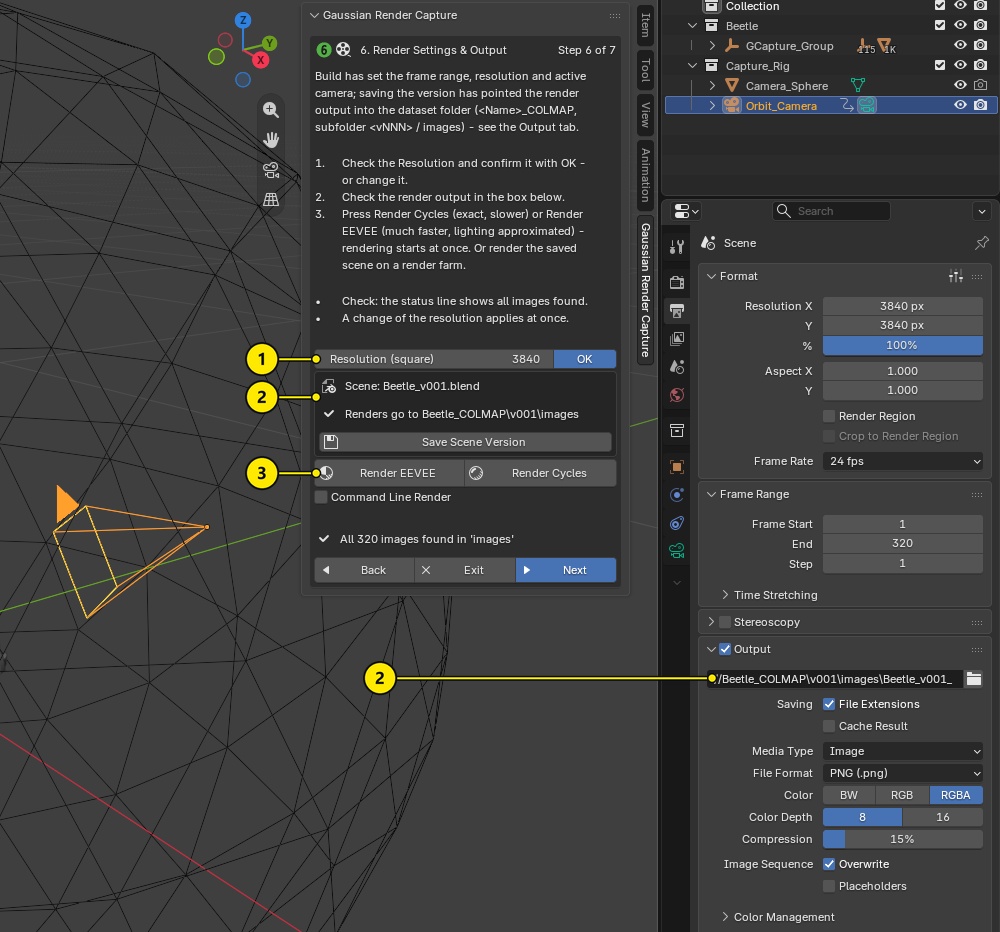
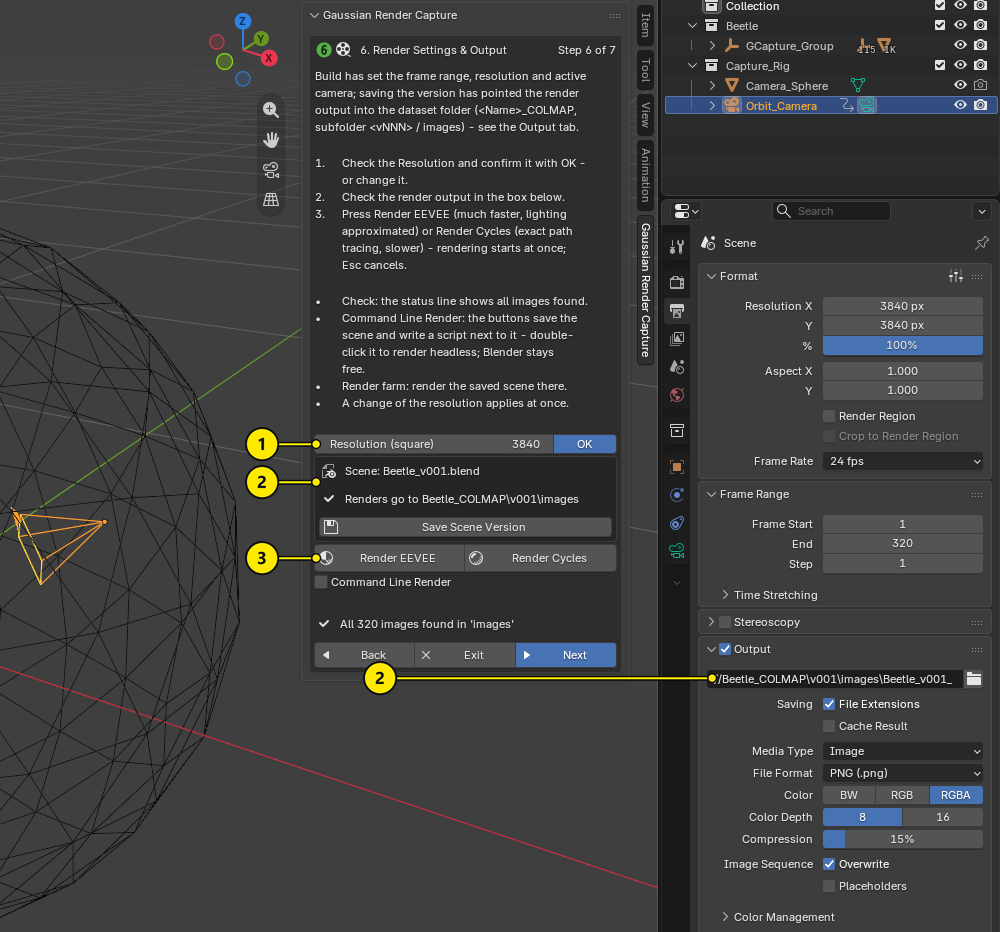
Guide, tutorial and docs for the new render and export features
Claude-Session: https://claude.ai/code/session_01BUSUMthGLNrrzG6UXMJPox

diff --git a/gaussian_capture.py b/gaussian_capture.py
@@ -4094,7 +4094,8 @@ _GCAPTURE_WT_STEPS = [
                 "Object on a ground: turn on Upper Hemisphere Only. "
                 "Floating object: leave it off - the full sphere also sees "
                 "it from below.",
-                "Press Create / Update Camera Sphere."],
+                "Keep Build Cameras on This Sphere on and press Create / "
+                "Update Camera Sphere."],
          check="the sphere surrounds the model; the status line shows the "
                "number of cameras.",
          note=["Framing Margin adds room around the model; 1.0 fills the "
@@ -4131,11 +4132,15 @@ _GCAPTURE_WT_STEPS = [
          steps=["Check the Resolution and confirm it with OK - or change "
                 "it.",
                 "Check the render output in the box below.",
-                "Press Render Cycles (exact, slower) or Render EEVEE (much "
-                "faster, lighting approximated) - rendering starts at once. "
-                "Or render the saved scene on a render farm."],
+                "Press Render EEVEE (much faster, lighting approximated) or "
+                "Render Cycles (exact path tracing, slower) - rendering "
+                "starts at once; Esc cancels."],
          check="the status line shows all images found.",
-         note=["A change of the resolution applies at once."]),
+         note=["Command Line Render: the buttons save the scene and write a "
+               "script next to it - double-click it to render headless; "
+               "Blender stays free.",
+               "Render farm: render the saved scene there.",
+               "A change of the resolution applies at once."]),
     dict(title="7. COLMAP Export", badge='gcapture_6', icon='EXPORT',
          draw=_gcapture_draw_export, status=_gcapture_wt_status_export,
          goal="Writes the cameras, their poses and a start point cloud into "
@@ -4148,7 +4153,9 @@ _GCAPTURE_WT_STEPS = [
                 "Open <Name>_COLMAP/<vNNN> in Postshot or LichtFeld Studio "
                 "and start training."],
          check="the status line shows \"Dataset written\".",
-         note=["Copy/Move only appear if you render into your own folder "
+         note=["The settings are grouped into Dataset, Start Points and "
+               "Scale & Axes; the defaults fit most models.",
+               "Copy/Move only appear if you render into your own folder "
                "structure."]),
 ]
 

diff --git a/docs/REFERENCE.md b/docs/REFERENCE.md
@@ -57,30 +57,45 @@ preset off when you render into a folder of your own.
 | Setting | Default | What it does |
 |---|---|---|
 | Resolution (square) | 1000 | Render resolution in pixels, width = height; applied at once. Confirm once with **OK**. |
-| **Render Cycles** | – | Starts rendering: one image per camera into the dataset with Cycles on the GPU and the settings of *Prepare Scene*. Exact, slower. |
-| **Render EEVEE** | – | The same with EEVEE: much faster, lighting approximated. The first time it applies a capture preset (256 samples, ray tracing and fast GI at full resolution, soft shadows, overscan); your later changes are kept. |
-| Command Line Render | off | Headless: the buttons read *Write Cycles .cmd* / *Write EEVEE .cmd* (`.command` on macOS, `.sh` on Linux): they save the scene and write a double-click script next to it (`<Scene>_render_cycles.cmd` / `_eevee`; `.command` on macOS, `.sh` on Linux) that renders headless with the same Blender version. |
+| **Render EEVEE** | – | Starts rendering: one image per camera into the dataset with EEVEE – much faster, lighting approximated. The first time it applies a capture preset (256 samples, ray tracing and fast GI at full resolution, soft shadows, overscan); your later changes are kept. |
+| **Render Cycles** | – | The same with Cycles on the GPU and the settings of *Prepare Scene*: exact path tracing, slower. |
+| Command Line Render | off | Headless: the buttons read *Write EEVEE .cmd* / *Write Cycles .cmd*. They save the scene and write a double-click script next to it (`<Scene>_render_eevee.cmd` / `_cycles`; `.command` on macOS, `.sh` on Linux) that renders with the same Blender version, without its interface. |
 
 Under *Advanced → Render Setup* (keep on for a capture): Step per Frame (constant keyframes), Set as
 Active Camera, Set Scene Frame Range, Set Render Resolution. They apply at once and on every Build.
 
 ## 7. COLMAP Export
 
+**Dataset**
+
 | Setting | Default | What it does |
 |---|---|---|
 | Output Folder | `//<Name>_COLMAP/<vNNN>/` | Dataset folder; follows the loaded version. Enter your own to override. |
 | Image Folder | folder of the render output | Where the rendered images are; follows the render output. |
-| Point Source | Look Target Collections | Where the start points come from: the look-target collections, all visible meshes, or named objects. |
-| Auto Scale / Target Radius | on / 3.0 | Scales the dataset so the cameras are on average 3 units from the centre (Postshot densifies very small or large scenes badly). The factor goes into `<vNNN>_gcapture_export.json` next to the dataset folder. |
-| Use Vertex Count | on | Every vertex of the model becomes a start point. Off: set *Max Points* yourself. |
-| Point Color | Material Base Color | Colour of the start points, face points included: the material base colour, a vertex colour layer, or grey. |
 | Images | Don't include | Only with your own render folder: *Copy* or *Move* the images into the dataset. |
-| Z-up → Y-up | on | Converts Blender's axes to the Y-up convention of the trainers. |
-| Visibility Filter | Visible Only | Drops points no camera can see (GPU depth maps); Esc cancels. |
+
+**Start Points**
+
+| Setting | Default | What it does |
+|---|---|---|
+| Point Source | Look Target Collections | Where the start points come from: the look-target collections, all visible meshes, or named objects. |
+| Use Vertex Count | on | Every vertex of the model becomes a start point. Off: set *Max Points* yourself. |
 | Add Random Face Points / Face Points | on / 10 % | Extra points spread over the surfaces, as a share of the vertex points. |
+| Visibility Filter | Visible Only | Drops points no camera can see (GPU depth maps); Esc cancels. |
+| Point Color | Material Base Color | Colour of the start points, face points included: the material base colour, a vertex colour layer, or grey. |
 | Crop Point Cloud | off | Keeps only points inside the bounds of a chosen object (plus margin). |
 | Reuse Point Cloud | on | Copies the last point cloud if nothing that affects it has changed. |
-| **Export COLMAP (Postshot / LichtFeld)** | – | Writes `sparse/0/` and, if chosen, the images into the dataset, and `<vNNN>_gcapture_export.json` next to it. |
+
+**Scale & Axes**
+
+| Setting | Default | What it does |
+|---|---|---|
+| Auto Scale / Target Radius | on / 3.0 | Scales the dataset so the cameras are on average 3 units from the centre (Postshot densifies very small or large scenes badly). The factor goes into `<vNNN>_gcapture_export.json` next to the dataset folder. |
+| Z-up → Y-up | on | Converts Blender's axes to the Y-up convention of the trainers. |
+
+| Button | What it does |
+|---|---|
+| **Export COLMAP (Postshot / LichtFeld)** | Writes `sparse/0/` and, if chosen, the images into the dataset, and `<vNNN>_gcapture_export.json` next to it. While it runs, a progress bar replaces the button; Esc cancels. |
 
 ## Advanced
 

diff --git a/docs/TUTORIAL.md b/docs/TUTORIAL.md
@@ -136,7 +136,7 @@ face.
 2. Keep **Fill Each View** and **Center in Each View** on.
 3. Object on a ground: turn on **Upper Hemisphere Only**. Floating object: leave it off – the
    full sphere also sees it from below.
-4. Press **Create / Update Camera Sphere**.
+4. Keep **Build Cameras on This Sphere** on and press **Create / Update Camera Sphere**.
 
 **Check:** a wireframe sphere surrounds the model; the status line shows *Camera_Sphere: 320
 cameras*. Camera and sphere live in their own collection *Capture_Rig*.
@@ -209,14 +209,15 @@ adjustments – the panel shows a red warning and Build asks before it does so.
 1. Check the **Resolution** and confirm it with **OK** – or change it (example: 3840 px).
 2. Check the render output: the box says `Renders go to Beetle_COLMAP\v001\images`. The guide has
    opened the **Output** tab, where you see the same path.
-3. Render the images: press **Render Cycles** (exact path tracing, slower) or **Render EEVEE** (much faster,
-   lighting approximated). Blender's render window shows the progress; **Esc** cancels. On a
+3. Render the images: press **Render EEVEE** (much faster, lighting approximated) or
+   **Render Cycles** (exact path tracing, slower). Blender's render window shows the progress; **Esc** cancels. On a
    render farm, render the saved scene there instead.
 
-   *Command Line Render* (headless): with this option the buttons read **Write Cycles .cmd** /
-   **Write EEVEE .cmd**; they save the scene and write a
-   script next to it, e.g. `Beetle_v001_render_cycles.cmd`. Double-click it to render without
-   Blender's interface – Blender stays free, and the render goes on when you close Blender.
+   *Command Line Render* (headless): with this option the buttons read **Write EEVEE .cmd** /
+   **Write Cycles .cmd**. They save the scene and write a script next to it, e.g.
+   `Beetle_v001_render_eevee.cmd`. Double-click it to render without Blender's interface –
+   Blender stays free, and the render goes on when you close Blender. On macOS the script is a
+   `.command`, on Linux a `.sh`.
 
 **Check:** the status line turns green: *All 320 images found in 'images'*.
 
@@ -240,6 +241,10 @@ under *Advanced → Render Setup* and should stay on.
 
 **What it is for:** writes the camera poses and a start point cloud next to the images – the
 finished dataset for the trainer.
+
+The panel groups the settings into **Dataset** (where the dataset and the images are),
+**Start Points** (what goes into the point cloud) and **Scale & Axes**. The defaults fit most
+models; while the export runs, a progress bar replaces the button and **Esc** cancels.
 
 1. Keep **Use Vertex Count** on: every vertex of the model becomes a start point.
 2. Keep **Visibility Filter** at **Visible Only**: points no camera can see (hidden inner parts)

diff --git a/docs/TROUBLESHOOTING.md b/docs/TROUBLESHOOTING.md
@@ -40,6 +40,17 @@ the dataset folder.
 every `.json` inside the dataset folder as a camera file. The add-on writes its info file next to
 the dataset, never inside – if a `.json` ended up in the dataset folder, move it out.
 
+**Render EEVEE / Render Cycles is greyed out.** Save the scene first (step 5, *Save Scene
+Version*) – the render goes into the dataset folder of this version.
+
+**The command line script closes at once or finds no Blender.** It calls the Blender that wrote it.
+If you moved or uninstalled that Blender, write the script again with *Write EEVEE .cmd* /
+*Write Cycles .cmd*.
+
+**Blender 4.1: "OpenImageDenoise error … PI_ERROR_INVALID_VALUE".** A problem of Blender 4.1 with
+current Intel graphics drivers. With an NVIDIA card the add-on switches Cycles to the OptiX
+denoiser; otherwise use Blender 4.2 or later.
+
 **The splat looks noisy in Blender 5.3 EEVEE.** See [KNOWN_ISSUES.md](KNOWN_ISSUES.md).
 
 **Training in LichtFeld has reached the maximum number of splats – is more training useful?** Yes.

diff --git a/README.md b/README.md
@@ -39,8 +39,10 @@ Example model: LDraw model of set 10252 by Roland Dahl (RolandD), CC BY 2.0 – 
 - **Scene versions** – `<Name>_v001.blend` renders and exports into its own dataset folder
   `<Name>_COLMAP/v001/`; versions never mix.
 - **Live Camera Adjust** – fine-tune one view or the whole sphere through the camera.
-- **Start point cloud** from all model vertices plus surface points; a GPU visibility filter drops
-  hidden inner parts.
+- **Render from the panel** – *Render EEVEE* (fast) or *Render Cycles* (exact); or *Command Line
+  Render*: a double-click script renders headless while Blender stays free.
+- **Start point cloud** from all model vertices plus surface points, in the material colours; a
+  GPU visibility filter drops hidden inner parts.
 - **Auto scale** with the factor recorded in `<vNNN>_gcapture_export.json` next to the dataset, so a
   trained splat can be placed back onto the model.
 

diff --git a/docs/GLOSSARY.md b/docs/GLOSSARY.md
@@ -37,4 +37,11 @@ dataset folder `<Name>_COLMAP/<vNNN>/`.
 **Auto Scale** – the export scales the dataset so the cameras are on average 3 units from the
 centre; the factor is stored in `<vNNN>_gcapture_export.json` next to the dataset folder.
 
+**EEVEE / Cycles** – Blender's two render engines. Cycles traces light paths physically (exact,
+slower); EEVEE approximates lighting in real time (much faster). For splats every view must be lit
+consistently – Cycles guarantees that, EEVEE comes close with the capture preset.
+
+**Command Line Render (headless)** – rendering without Blender's interface, started from a script
+(`blender -b <scene> -a`). The add-on writes such a script next to the scene; double-click it.
+
 **Z-up / Y-up** – Blender uses Z as "up", many splatting tools use Y. The export converts it.

diff --git a/docs/QUICKSTART.md b/docs/QUICKSTART.md
@@ -13,7 +13,7 @@ The shortest way from a model to a Gaussian Splat. Each line is one click or one
 | 6 | Object on a ground: **Group & Align to Ground** – floating object: **Next** | *Grouped under 'GCapture_Group'* |
 | 7 | Subdivisions 3, **Create / Update Camera Sphere** (on a ground: *Upper Hemisphere Only*) | *Camera_Sphere: 320 cameras* |
 | 8 | **Build Camera Animation**, save as `<Name>_v001.blend` | *320 camera poses* |
-| 9 | Resolution **OK**, then **Render Cycles** (or **Render EEVEE**, faster) | *All 320 images found* |
+| 9 | Resolution **OK**, then **Render EEVEE** (fast) or **Render Cycles** (exact) | *All 320 images found* |
 | 10 | **Export COLMAP (Postshot / LichtFeld)** | *Dataset written* |
 | 11 | Open `<Name>_COLMAP/v001` in Postshot or LichtFeld Studio and train | the splat |
 
